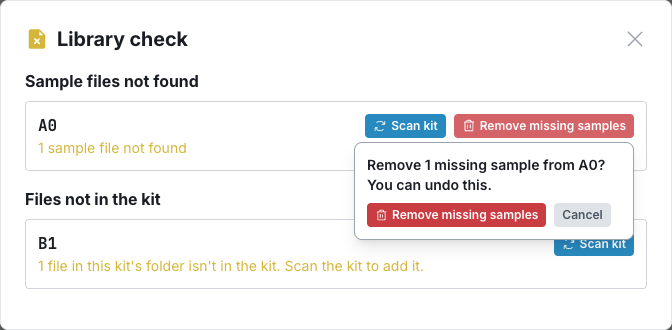
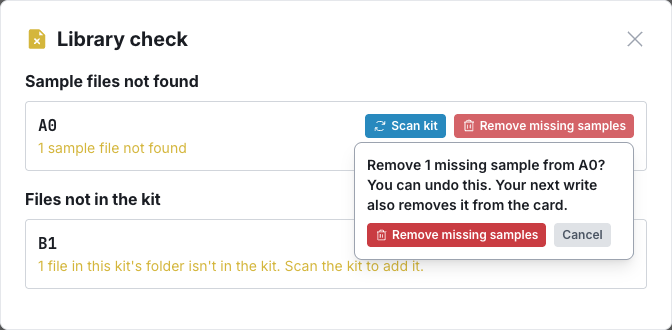
feat(store-check): say in the remove confirmation that the next write removes the samples from the card (#822)
Approved on #822 (2026-11-06).

Changed region(s): [[0.5312, 0.6061, 0.9688, 0.8182], [0.7188, 0.5455, 0.9062, 0.5758]]

diff --git a/tests/e2e/store-check.e2e.test.ts b/tests/e2e/store-check.e2e.test.ts
@@ -486,7 +486,7 @@ test.describe("[UC-05] Remove missing samples (#822)", () => {
       .getByRole("button", { name: "Remove missing samples A0" })
       .click();
     const popover = dialog.getByRole("dialog", {
-      name: "Remove 1 missing sample from A0? You can undo this.",
+      name: "Remove 1 missing sample from A0? You can undo this. Your next write also removes it from the card.",
     });
     await expect(popover.getByRole("button", { name: "Cancel" })).toBeFocused();
     await popover
@@ -524,7 +524,7 @@ test.describe("[UC-05] Remove missing samples (#822)", () => {
       .click();
     await notice
       .getByRole("dialog", {
-        name: "Remove 1 missing sample from A0? You can undo this.",
+        name: "Remove 1 missing sample from A0? You can undo this. Your next write also removes it from the card.",
       })
       .getByRole("button", { name: "Remove missing samples" })
       .click();

diff --git a/app/renderer/components/dialogs/__tests__/LibraryCheckDialog.test.tsx b/app/renderer/components/dialogs/__tests__/LibraryCheckDialog.test.tsx
@@ -445,7 +445,7 @@ describe("[UC-05] [Q-06] LibraryCheckDialog (#824)", () => {
       );
 
       const popover = screen.getByRole("dialog", {
-        name: "Remove 2 missing samples from A1? You can undo this.",
+        name: "Remove 2 missing samples from A1? You can undo this. Your next write also removes them from the card.",
       });
       const cancel = within(popover).getByRole("button", { name: "Cancel" });
       expect(cancel).toHaveFocus();
@@ -471,7 +471,7 @@ describe("[UC-05] [Q-06] LibraryCheckDialog (#824)", () => {
 
       expect(
         screen.getByRole("dialog", {
-          name: "Remove 1 missing sample from A1? You can undo this.",
+          name: "Remove 1 missing sample from A1? You can undo this. Your next write also removes it from the card.",
         }),
       ).toBeInTheDocument();
     });

diff --git a/app/renderer/components/__tests__/KitVoicePanels.test.tsx b/app/renderer/components/__tests__/KitVoicePanels.test.tsx
@@ -1680,7 +1680,7 @@ describe("KitVoicePanels", () => {
           }),
         );
         const popover = screen.getByRole("dialog", {
-          name: "Remove 2 missing samples from Kit1? You can undo this.",
+          name: "Remove 2 missing samples from Kit1? You can undo this. Your next write also removes them from the card.",
         });
         await act(async () => {
           fireEvent.click(
@@ -1726,7 +1726,7 @@ describe("KitVoicePanels", () => {
         );
         expect(
           screen.getByRole("dialog", {
-            name: "Remove 1 missing sample from Kit1? You can undo this.",
+            name: "Remove 1 missing sample from Kit1? You can undo this. Your next write also removes it from the card.",
           }),
         ).toBeInTheDocument();
         unmount();

diff --git a/shared/storeCheckWording.ts b/shared/storeCheckWording.ts
@@ -120,13 +120,16 @@ export function describeRemovedMissingSamples(
 
 /**
  * The remove popover's question (approved on #824, 2026-10-30; the
- * singular in the same style, 2026-10-31)
+ * singular in the same style, 2026-10-31), with what the next write does
+ * (approved on #822, 2026-11-06)
  */
 export function describeRemoveMissingSamples(
   count: number,
   kitName: string,
 ): string {
-  return `Remove ${count} missing ${count === 1 ? "sample" : "samples"} from ${kitName}? You can undo this.`;
+  return count === 1
+    ? `Remove 1 missing sample from ${kitName}? You can undo this. Your next write also removes it from the card.`
+    : `Remove ${count} missing samples from ${kitName}? You can undo this. Your next write also removes them from the card.`;
 }
 
 /**

diff --git a/shared/__tests__/storeCheckWording.test.ts b/shared/__tests__/storeCheckWording.test.ts
@@ -53,10 +53,10 @@ describe("[UC-05] [Q-06] store check wording (#824)", () => {
 
     it("asks in the popover, with the count and the kit, singular for one", () => {
       expect(describeRemoveMissingSamples(2, "A3")).toBe(
-        "Remove 2 missing samples from A3? You can undo this.",
+        "Remove 2 missing samples from A3? You can undo this. Your next write also removes them from the card.",
       );
       expect(describeRemoveMissingSamples(1, "A3")).toBe(
-        "Remove 1 missing sample from A3? You can undo this.",
+        "Remove 1 missing sample from A3? You can undo this. Your next write also removes it from the card.",
       );
     });
 

diff --git a/docs/manual/kit-editor.md b/docs/manual/kit-editor.md
@@ -118,7 +118,7 @@ When you write to the card:
 
 Romper checks a kit's sample files when you open it, so problems show before you write to the card. It reads the files it hasn't read yet, and the ones it last found missing or unreadable, so a file you've put back or replaced is seen too.
 
-- **File not found** -- The sample's file has been moved or deleted. The slot is labelled **File not found**, and a notice above the voices says which file and how to fix it, for example "kick.wav on voice 1 wasn't found: it was moved or deleted. Put it back, or replace or remove the sample. Until then it's skipped when you write to the card." A missing file doesn't quarantine the kit: the rest of the kit is written, and the write summary lists the skipped sample. The notice has a **Scan kit** button: after you put a file back, it checks the kit again, so the label and the notice go, and so does the kit's yellow icon in the Kit Browser. In an editable kit it only checks the files and names voices; it never adds the files in the kit's folder. Beside it, **Remove missing samples** removes the kit's samples whose files are gone, after asking, in a read-only kit too; samples on a drive that isn't connected stay. **Edit > Undo** puts them back.
+- **File not found** -- The sample's file has been moved or deleted. The slot is labelled **File not found**, and a notice above the voices says which file and how to fix it, for example "kick.wav on voice 1 wasn't found: it was moved or deleted. Put it back, or replace or remove the sample. Until then it's skipped when you write to the card." A missing file doesn't quarantine the kit: the rest of the kit is written, and the write summary lists the skipped sample. The notice has a **Scan kit** button: after you put a file back, it checks the kit again, so the label and the notice go, and so does the kit's yellow icon in the Kit Browser. In an editable kit it only checks the files and names voices; it never adds the files in the kit's folder. Beside it, **Remove missing samples** removes the kit's samples whose files are gone, after asking, in a read-only kit too; samples on a drive that isn't connected stay. Your next write also removes them from the card. **Edit > Undo** puts them back.
 
   ![A missing file: the notice above the voices, and File not found under the sample]({{ site.baseurl }}/images/manual/missing-file.png)
 

diff --git a/docs/manual/kit-browser.md b/docs/manual/kit-browser.md
@@ -146,7 +146,7 @@ Click the status bar item (or focus it and press `Enter`) to open the **Library 
 
 ![The Library check, listing a kit with a missing sample file and a kit with a file in its folder that the kit doesn't hold]({{ site.baseurl }}/images/manual/library-check-dialog.png)
 
-A kit under **Sample files not found** also has a **Remove missing samples** button. It asks first, for example "Remove 2 missing samples from A3? You can undo this." (unless you turned off **Confirm destructive actions** in Preferences). Romper then checks each file again and removes only the samples whose files are still gone, closes the gaps they leave in their voices, and marks the kit modified. It never deletes a file, and it never removes a sample whose file is on a drive that isn't connected. It works on read-only kits too. The kit's entry, its icon and the status bar item update at once. To put the samples back, use **Edit > Undo** (`Cmd+Z` / `Ctrl+Z`) after closing the Library check, before you open another kit.
+A kit under **Sample files not found** also has a **Remove missing samples** button. It asks first, for example "Remove 2 missing samples from A3? You can undo this. Your next write also removes them from the card." (unless you turned off **Confirm destructive actions** in Preferences). Romper then checks each file again and removes only the samples whose files are still gone, closes the gaps they leave in their voices, and marks the kit modified. It never deletes a file, and it never removes a sample whose file is on a drive that isn't connected. It works on read-only kits too. The next time you write to the SD card, the write removes those samples from the card as well. The kit's entry, its icon and the status bar item update at once. To put the samples back, use **Edit > Undo** (`Cmd+Z` / `Ctrl+Z`) after closing the Library check, before you open another kit.
 
 ![The Library check asking before it removes a kit's missing sample]({{ site.baseurl }}/images/manual/library-check-remove.png)
 

diff --git a/docs/developer/store-check.md b/docs/developer/store-check.md
@@ -703,7 +703,7 @@ checks samples. Once stage 3 replaced `ValidationResultsDialog`,
 - One-time message: "Romper found missing sample files in 3 kits. Open the list from the status bar."
 - Details dialog title: "Library check"
 - Fix buttons: "Scan kit", "Remove missing samples", "Find missing files…"
-- Remove popover: "Remove 2 missing samples from A3? You can undo this."
+- Remove popover: "Remove 2 missing samples from A3? You can undo this." (extended on #822, below)
 - Search: "Choose a folder to search for kick.wav"; results "Found kick.wav in Samples/Drums." / "Found 2 files named kick.wav. Choose one." / "No copy of kick.wav found in Samples."
 - Restore buttons: "Copy back" (store samples), "Use this file" (samples outside the store, if D2 says so)
 - Undo of a copy whose file changed: "kick.wav has changed since Romper copied it, so it wasn't removed."
@@ -715,6 +715,11 @@ checks samples. Once stage 3 replaced `ValidationResultsDialog`,
 - Details dialog with nothing to list: "No problems found."
 - Status bar item when the only problems are drives: "Drive not connected", or "Drive not responding" when no drive is disconnected and one didn't respond. When kits need attention, the kit count shows instead.
 - The one-time message is for missing sample files only; untracked files and missing folders show only by the badge and the status bar.
+
+**Approved on #822 (2026-11-06):**
+
+- Remove popover, with what the next write does: "Remove 2 missing samples from A3? You can undo this. Your next write also removes them from the card." Singular: "Remove 1 missing sample from A3? You can undo this. Your next write also removes it from the card."
+- Undo that fails: "Couldn't undo: remove 2 missing samples from A3. Check the kit, then try again." (the app's existing undo-failure pattern)
 
 ## Risks
 
